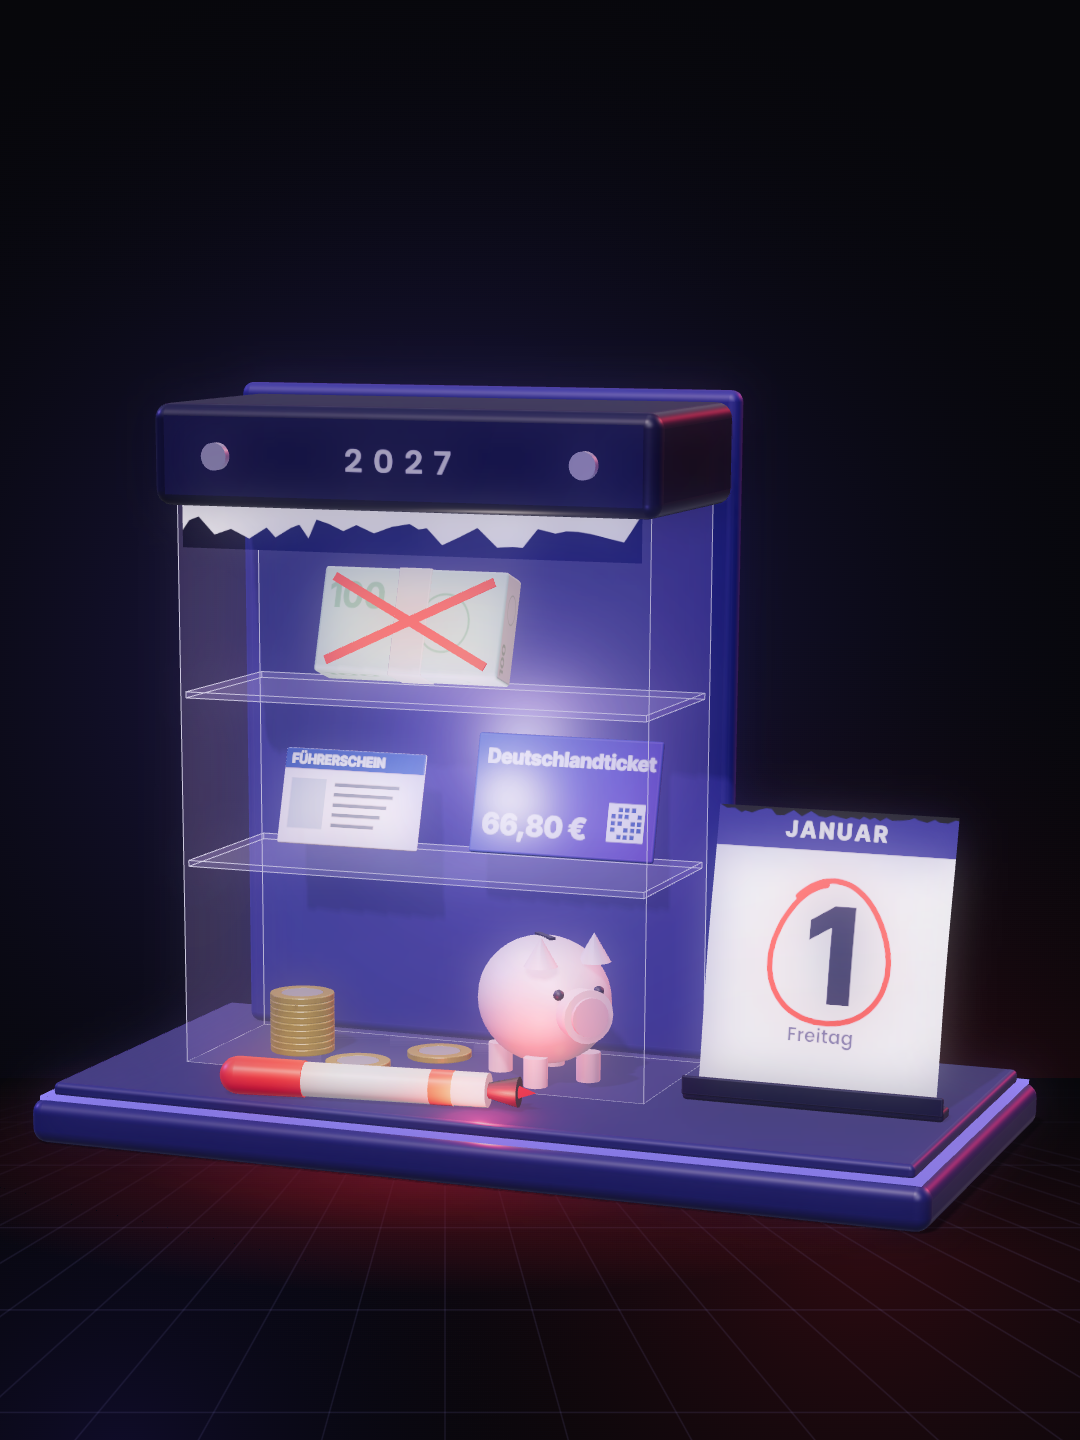
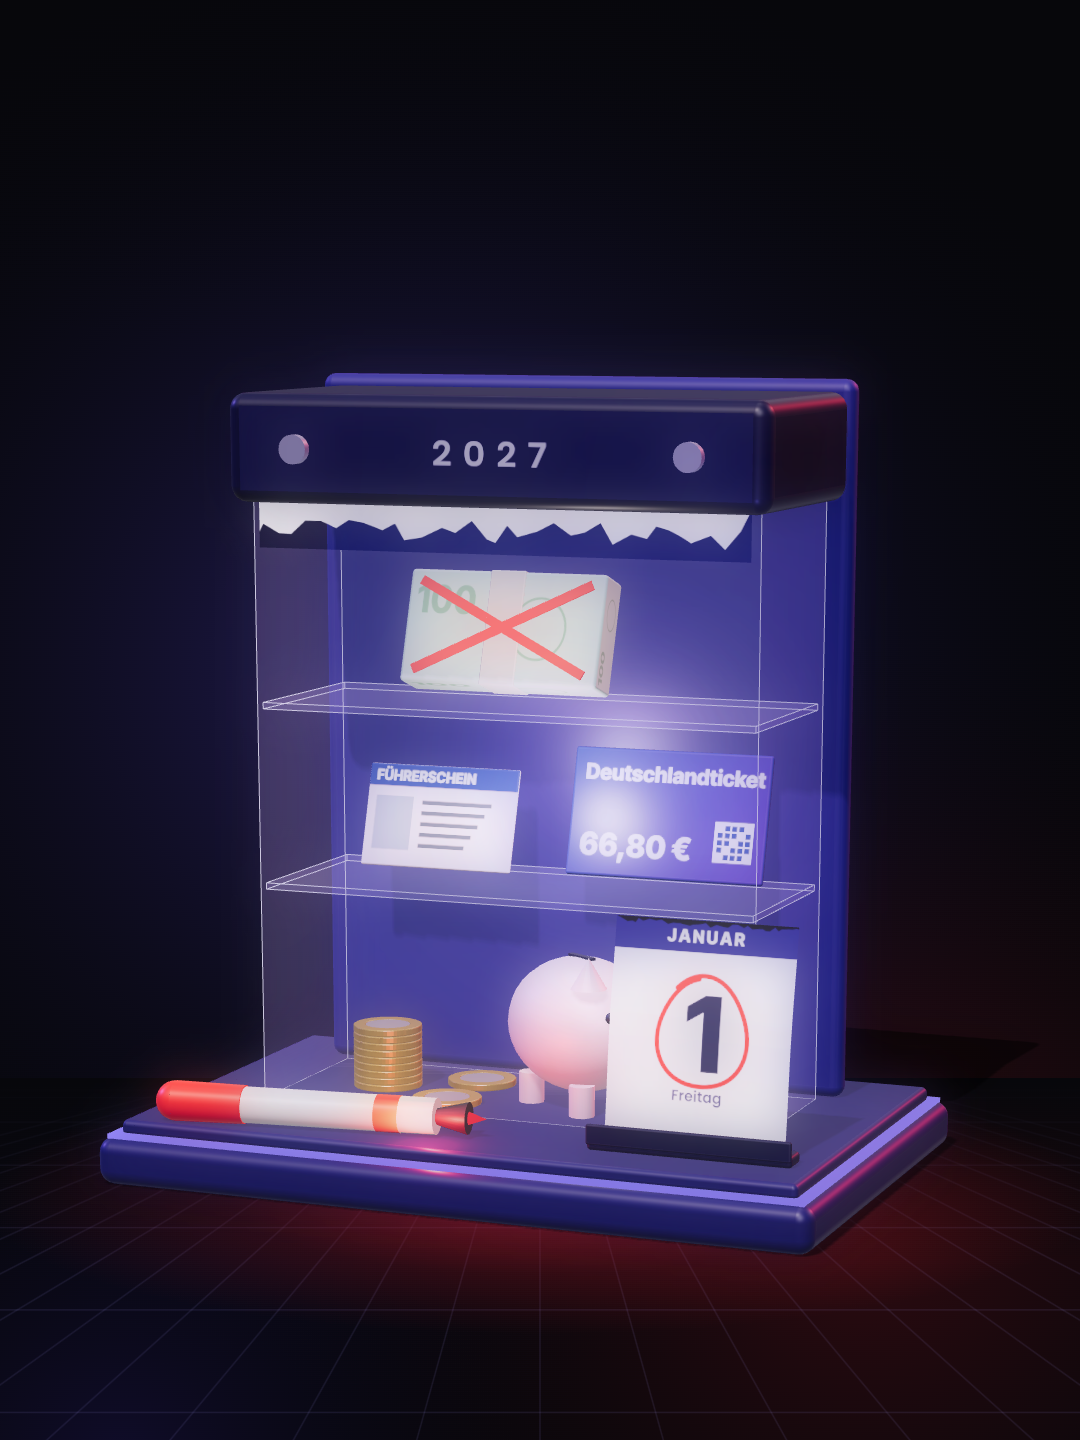
2027-Cover: Januar-Blatt im Aufsteller vor dem Sparschwein, Platte wieder in Originalgröße
Claude-Session: https://claude.ai/code/session_01JQEQeouhfuAX8JpSfuj7SD

diff --git a/jahr2027/cover_clean.html b/jahr2027/cover_clean.html
@@ -20,8 +20,8 @@ import {RoundedBoxGeometry} from 'three/addons/geometries/RoundedBoxGeometry.js'
 await Promise.all(['600 40px Poppins','800 96px "Inter Tight"'].map(f=>document.fonts.load(f)));
 const W=1080,H=1920;const Q=new URLSearchParams(location.search);const V=+(Q.get('v')||1);
 const bg=document.getElementById('bg').getContext('2d'),fg=document.getElementById('fg').getContext('2d');
-const DEF={1:{cy:1360,el:14,ry:-0.38,s:1.05},2:{cy:1330,el:14,ry:-0.38,s:1.12},3:{cy:1360,el:14,ry:-0.34,s:1.05}}[V];
-const CX=+(Q.get('cx')||(V===2?540:445)),CY=+(Q.get('cy')||DEF.cy);
+const DEF={1:{cy:1400,el:14,ry:-0.38,s:1.12},2:{cy:1330,el:14,ry:-0.38,s:1.12},3:{cy:1360,el:14,ry:-0.34,s:1.05}}[V];
+const CX=+(Q.get('cx')||540),CY=+(Q.get('cy')||DEF.cy);
 // ---------- background (same recipe as the other clean covers) ----------
 {bg.fillStyle='#07070B';bg.fillRect(0,0,W,H);
  const blob=(x,y,r,c)=>{const g=bg.createRadialGradient(x,y,0,x,y,r);g.addColorStop(0,c);g.addColorStop(1,'rgba(0,0,0,0)');bg.fillStyle=g;bg.fillRect(0,0,W,H);};
@@ -65,7 +65,7 @@ const coin=(par,x,y,z,rx,ry,rz=0)=>{const G=new THREE.Group();G.position.set(x,y
 // ---------------- the calendar ----------------
 const C=obj;const PW=1.3,PH=1.5,PD=0.5,BY=0.16;
 // plinth with a lit edge
-const XW=(V===2?0:0.58),XO=XW/2; // v1/v3: the plinth is longer to the right, the torn page stands there in a small holder
+const XW=0,XO=0;
 RB(C,PW+0.55+XW,0.12,PD+0.7,PAN,XO,0.06,0.05,0.04);
 add(C,new THREE.BoxGeometry(PW+0.5+XW,0.012,PD+0.65),new THREE.MeshBasicMaterial({color:0x9a8cff,toneMapped:false}),XO,0.122,0.05);
 RB(C,PW+0.45+XW,0.04,PD+0.6,PAN,XO,0.14,0.05,0.015);
@@ -82,12 +82,12 @@ const IN=new THREE.Group();IN.position.set(0,BY,0);C.add(IN);const ZB=-PD/2+0.00
 for(const sy of [S1,S2]){const g=new THREE.BoxGeometry(PW-0.02,0.016,PD-0.02);glass(IN,g,0,sy-0.008,0,.16);edges(IN,g,0,sy-0.008,0);}
 // lean a slab (height h along its local y, thickness t along local z) back against the back pane, standing on height y0
 const leanSlab=(o,y0,h,t,a)=>{o.rotation.x=-a;o.position.y=y0+h/2*Math.cos(a)+t/2*Math.sin(a);o.position.z=ZB+t/2*Math.cos(a)+h/2*Math.sin(a);};
-const CT=0.018;for(let i=0;i<9;i++)coin(IN,-0.42,0.009+i*CT,0.0,-Math.PI/2,0,i*0.7);coin(IN,-0.2,0.009,0.13,-Math.PI/2,0,1);coin(IN,-0.04,0.009,-0.06,-Math.PI/2,0,2);
+const CT=0.018;for(let i=0;i<9;i++)coin(IN,-0.42,0.009+i*CT,0.0,-Math.PI/2,0,i*0.7);coin(IN,-0.2,0.009,0.13,-Math.PI/2,0,1);coin(IN,-0.2,0.009,-0.1,-Math.PI/2,0,2);
 {const T=canvasTex(512,320,(g,w,h)=>{const gr=g.createLinearGradient(0,0,w,h);gr.addColorStop(0,'#1f3a8a');gr.addColorStop(1,'#3f2a9a');g.fillStyle=gr;g.fillRect(0,0,w,h);g.fillStyle='#fff';g.font='800 54px "Inter Tight"';g.fillText('Deutschlandticket',30,80);
    g.font='800 78px "Inter Tight"';g.fillText('66,80 €',30,270);g.fillStyle='#fff';g.fillRect(380,170,100,100);g.fillStyle='#1f3a8a';for(let i=0;i<5;i++)for(let k=0;k<5;k++)if((i*7+k*3)%4)g.fillRect(388+i*18,178+k*18,14,14);});
  const sc=1.25,t=new THREE.Mesh(new RoundedBoxGeometry(0.42*sc,0.26*sc,0.012*sc,2,0.01),[M(0x2a3a8a),M(0x2a3a8a),M(0x2a3a8a),M(0x2a3a8a),new THREE.MeshStandardMaterial({map:T,roughness:.4}),M(0x2a3a8a)]);
  t.castShadow=true;t.position.x=0.27;leanSlab(t,S1,0.26*sc,0.012*sc,0.26);IN.add(t);}
-{const P=new THREE.Group();P.position.set(0.3,0.0,0.04);P.rotation.y=-0.75;P.scale.setScalar(1.3);IN.add(P);const pk=M(0xf3c6d4,{roughness:.5});
+{const P=new THREE.Group();P.position.set(0.12,0.0,0.02);P.rotation.y=-0.55;P.scale.setScalar(1.3);IN.add(P);const pk=M(0xf3c6d4,{roughness:.5});
  const b=add(P,new THREE.SphereGeometry(0.13,28,20),pk,0,0.16,0);b.scale.set(1.25,1,1);add(P,new THREE.CylinderGeometry(0.05,0.055,0.05,20).rotateZ(Math.PI/2),pk,0.17,0.16,0);
  add(P,new THREE.CylinderGeometry(0.04,0.04,0.012,20).rotateZ(Math.PI/2),M(0xe2a3b8),0.197,0.16,0);for(const [x,z] of [[0.08,0.06],[0.08,-0.06],[-0.08,0.06],[-0.08,-0.06]])add(P,new THREE.CylinderGeometry(0.025,0.025,0.06,12),pk,x,0.03,z);
  for(const s of [-1,1])add(P,new THREE.ConeGeometry(0.035,0.06,12),pk,0.1,0.28,s*0.06);add(P,new THREE.BoxGeometry(0.07,0.005,0.012),DARK,0,0.29,0);
@@ -125,11 +125,11 @@ function PAGES(){const pw=PW-0.04,ph=PH-0.04;
     const t=new THREE.CanvasTexture(c);t.colorSpace=THREE.SRGBColorSpace;t.anisotropy=8;return t;})();
   const G=pageMesh(pageGeo(pw,ph,v=>0.05*Math.sin(v*Math.PI*2)),torn); // nearly flat: it stands in the holderG.children.forEach(m=>{m.material.transparent=true;m.material.alphaTest=0.5;});
   if(!G.children[1].material.map){G.children[1].material.alphaMap=null;}
-  // the torn page stands right next to the calendar in a small holder on the plinth: a ledge in front, a wire stand behind, leaning back slightly
-  const sc=0.5,w=pw*sc,h=ph*sc,a=0.2,x0=1.07,y0=0.16+0.03,z0=0.12;G.scale.setScalar(sc);G.rotation.set(-a,0,0);
+  // the torn page stands in front of the piggy bank in a small holder on the plinth (between the glass and the front edge), leaning back slightly
+  const sc=0.36,w=pw*sc,h=ph*sc,a=0.15,x0=0.56,y0=0.16+0.03,z0=0.42;G.scale.setScalar(sc);G.rotation.set(-a,0,0);
   G.position.set(x0,y0+h/2*Math.cos(a),z0-h/2*Math.sin(a));C.add(G);
   RB(C,w+0.06,0.03,0.07,DARK,x0,0.16+0.015,z0+0.01,0.01);RB(C,w+0.06,0.05,0.012,DARK,x0,0.16+0.04,z0+0.045,0.005);
-  const back=z0-0.02-h*0.62*Math.sin(a);for(const sx of [-1,1]){const A=new THREE.Vector3(x0+sx*w*0.3,0.16,z0-0.32),B=new THREE.Vector3(x0+sx*w*0.3,y0+h*0.62*Math.cos(a),back);
+  const back=z0-0.02-h*0.62*Math.sin(a);for(const sx of [-1,1]){const A=new THREE.Vector3(x0+sx*w*0.3,0.16,z0-0.13),B=new THREE.Vector3(x0+sx*w*0.3,y0+h*0.62*Math.cos(a),back);
     const g=new THREE.CylinderGeometry(0.008,0.008,A.distanceTo(B),10);g.translate(0,A.distanceTo(B)/2,0);g.applyQuaternion(new THREE.Quaternion().setFromUnitVectors(new THREE.Vector3(0,1,0),B.clone().sub(A).normalize()));const m=new THREE.Mesh(g,METAL);m.position.copy(A);m.castShadow=true;C.add(m);}
   {const g=new THREE.CylinderGeometry(0.008,0.008,w*0.6,10).rotateZ(Math.PI/2);const m=new THREE.Mesh(g,METAL);m.position.set(x0,y0+h*0.62*Math.cos(a),back);C.add(m);}}
 PAGES();
@@ -139,7 +139,7 @@ if(V===3){const months=['FEBRUAR','JULI','DEZEMBER'],days=['1','10','31'];months
   const pos=p.geometry.attributes.position;for(let k=0;k<pos.count;k++){const x=pos.getX(k);pos.setZ(k,0.06*Math.sin((x+0.21)/0.42*Math.PI)*(i%2?1:-1));}p.geometry.computeVertexNormals();
   p.position.set([-0.78,-0.05,0.68][i],BY+PH+[0.66,0.84,0.72][i],[0.25,0.1,0.05][i]);p.rotation.set(-0.3+i*0.2,[0.5,-0.2,-0.6][i],[0.35,-0.15,-0.4][i]);p.castShadow=true;C.add(p);});}
 // the red marker lying on the plinth in front
-{const Mk=new THREE.Group();Mk.position.set(0.3,0.16+0.05,0.45);Mk.rotation.set(0,0.12,Math.PI/2);C.add(Mk);const wh=M(0xeceae5,{roughness:.35});
+{const Mk=new THREE.Group();Mk.position.set(-0.08,0.16+0.05,0.47);Mk.rotation.set(0,0.12,Math.PI/2);C.add(Mk);const wh=M(0xeceae5,{roughness:.35});
  add(Mk,new THREE.CylinderGeometry(0.045,0.045,0.5,28),wh,0,0.25,0);add(Mk,new THREE.CylinderGeometry(0.046,0.046,0.06,28),REDS,0,0.12,0);add(Mk,new THREE.CylinderGeometry(0.05,0.048,0.18,28),REDS,0,0.58,0);
  add(Mk,new THREE.SphereGeometry(0.05,24,12,0,Math.PI*2,0,Math.PI/2),REDS,0,0.67,0);add(Mk,new THREE.CylinderGeometry(0.02,0.04,0.08,20),M(0x2a2a30),0,-0.04,0);add(Mk,new THREE.ConeGeometry(0.018,0.05,16).rotateX(Math.PI),REDM,0,-0.1,0);
  const p=new THREE.PointLight(0xff2030,0.8,0.8,2);p.position.set(0,0.0,0.1);Mk.add(p);}

diff --git a/STATUS.md b/STATUS.md
@@ -123,7 +123,7 @@ Der Nutzer wollte neue Ideen ohne Diorama-Look und hat dieses Thema gewählt, da
 - Higgsfield-Guthaben war 0, deshalb ist alles selbst in 3D gebaut; Prompts für eine spätere Variante stehen im Drehbuch unter F.
 - Fertig am 19.11.2026: `Was_aendert_sich_2027_mit_Musik.mp4` und `_nur_Effekte.mp4` (77,0 s, −16 LUFS), Upload-Fassung mit Cover als erstem Standbild in `social/Was_aendert_sich_2027_Upload_mit_Cover.mp4`, Kontaktbogen `Kontaktbogen_Was_aendert_sich_2027.jpg`. Die ersten 248 Bilder wurden mit einer lebendigeren Hook-Kamera neu gerendert (`fr2`, Naht bei Bild 248 geprüft). Effekte liegen 5 bis 8 dB unter der Stimme.
 - Dritte Fassung (19.11.2026, Feedback mit sieben Screenshots): Nichts ragt mehr in den Tisch (geprüft für jedes Bild mit `node clipcheck.mjs 0 76`, Kollisionen von Bündel, Theke und Figuren mit `node collide.mjs 61 71`). Die Balken haben einen Sockel mit großem „2026/2027“, die Werte stehen auf den Balken. Die Lasche des Musterungsbriefs sitzt hinten, der Brief kommt davor heraus, die Adresse passt ins Fenster. Die Brutto-Zeile passt immer zum Stundenlohn. Statt der Figuren, die nach KI aussahen, gibt es zwei Holz-Spielfiguren (`mkMeeple` in `src/props.js`, `meepleAnim` in `src/main.js`), das Bündel rutscht über den Tisch statt zu schweben. Alle Effekte kommen aus der Soundza-Bibliothek (IDs in `SOUNDS.md`), Musik sowie Whoosh und Klicks des Nutzers bleiben. Das Video wurde komplett neu gerendert (`fr3`, dann nach `fr`).
-- Cover neu (Wunsch des Nutzers, 20.11.2026: „das Cover im Stil von meinen anderen“): `jahr2027/cover_clean.html` (Server Port 8777 im Ordner `jahr2027`, `node cover_clean.mjs out.png "?v=1"`), clean wie Geldautomat, Fernsehturm und Merz: kompakter Abreißkalender „2027“ in Lila und Violett auf einer Platte mit Lichtkante, gläserner Blattblock mit Blick ins Innere (Münzstapel, Deutschlandticket 66,80 €, Sparschwein, Führerschein, Geldbündel mit rotem Kreuz), roter Filzstift auf der Platte. `?v=1` das Januar-Blatt mit rotem Kringel fliegt gerade ab (als Thumbnail gesetzt), `?v=2` das Blatt rollt sich unten auf, `?v=3` wie 1 mit drei weiteren fliegenden Blättern. Vergleich: `jahr2027/social/Cover_2027_Varianten.jpg`. Das alte Cover (Kalender auf dem grauen Tisch) liegt in `social/cover_alt/`. Danach auf Fehler geprüft und überarbeitet (Wunsch des Nutzers, 20.11.2026): Nichts schwebt mehr, Münzen liegen flach auf dem Boden, Führerschein und Deutschlandticket stehen auf einem gläsernen Regalboden und lehnen an der Rückwand, das Geldbündel steht auf einem zweiten Regalboden, das rote Kreuz bleibt auf dem Bündel, der Stift liegt ganz auf der Platte, das abgerissene Blatt (mit gerissener Oberkante) fliegt frei über der Kopfleiste und liegt komplett im 3:4-Ausschnitt. Danach (Wunsch des Nutzers: „Mach das Blatt mit erste Januar neben dran“): Die Platte ist nach rechts verlängert, und das abgerissene Januar-Blatt steht dort in einem kleinen dunklen Aufsteller mit Drahtstütze direkt neben dem Kalender, leicht nach hinten geneigt (Variante 1, als Thumbnail gesetzt; Variante 3 genauso, mit drei weiteren fliegenden Blättern).
+- Cover neu (Wunsch des Nutzers, 20.11.2026: „das Cover im Stil von meinen anderen“): `jahr2027/cover_clean.html` (Server Port 8777 im Ordner `jahr2027`, `node cover_clean.mjs out.png "?v=1"`), clean wie Geldautomat, Fernsehturm und Merz: kompakter Abreißkalender „2027“ in Lila und Violett auf einer Platte mit Lichtkante, gläserner Blattblock mit Blick ins Innere (Münzstapel, Deutschlandticket 66,80 €, Sparschwein, Führerschein, Geldbündel mit rotem Kreuz), roter Filzstift auf der Platte. `?v=1` das Januar-Blatt mit rotem Kringel fliegt gerade ab (als Thumbnail gesetzt), `?v=2` das Blatt rollt sich unten auf, `?v=3` wie 1 mit drei weiteren fliegenden Blättern. Vergleich: `jahr2027/social/Cover_2027_Varianten.jpg`. Das alte Cover (Kalender auf dem grauen Tisch) liegt in `social/cover_alt/`. Danach auf Fehler geprüft und überarbeitet (Wunsch des Nutzers, 20.11.2026): Nichts schwebt mehr, Münzen liegen flach auf dem Boden, Führerschein und Deutschlandticket stehen auf einem gläsernen Regalboden und lehnen an der Rückwand, das Geldbündel steht auf einem zweiten Regalboden, das rote Kreuz bleibt auf dem Bündel, der Stift liegt ganz auf der Platte, das abgerissene Blatt (mit gerissener Oberkante) fliegt frei über der Kopfleiste und liegt komplett im 3:4-Ausschnitt. Danach (Wunsch des Nutzers: das Januar-Blatt „vor dem Sparschwein, Platte nicht verlängern“): Das abgerissene Januar-Blatt steht in einem kleinen dunklen Aufsteller mit Drahtstütze auf der Platte zwischen Glas und Vorderkante, direkt vor dem Sparschwein, das dahinter etwas zur Seite gerückt ist; der rote Stift liegt links daneben (Variante 1, als Thumbnail gesetzt; Variante 3 genauso, mit drei weiteren fliegenden Blättern).
 - Outro v8 (Wunsch des Nutzers, 20.11.2026: „Mach einfach nur, dass function. erscheint, 2 Sekunden, das ist mir alles zu schlecht“): Nach Stempel, roter Linie, rollendem Stift, Silvester-Feuerwerk und zehn Kreisen, die zum Punkt werden (alle verworfen), blendet das Bild nach dem letzten Satz in 0,3 s auf den dunklen Hintergrund ab, und in der Mitte erscheint ruhig das rote „function.“ (Poppins 500, 190 px) und bleibt stehen (`logoOutro()` in `src/main.js`, Canvas `#fw`). Danach (Wunsch des Nutzers: „Hintergrund bisschen heller sehen und der Punkt kommt nach“): Der Hintergrund wird nur auf etwa 60 % abgedunkelt, sodass Kalender und Objekte schwach sichtbar bleiben und ruhig stehen (die Objekte bleiben bis zum Ende in ihrer Übersichtsposition). „function“ blendet zuerst ein, der Punkt ploppt etwa eine halbe Sekunde später nach, dazu ein leiser Klick (`LO` in `src/main.js`). Video 75,6 s (2268 Bilder).
 - Überarbeitung am 19.11.2026 (Wunsch des Nutzers, nur zwei Szenen): Das Sparschwein (0:31–0:37) trabt mit Gelenkbeinen hinein und hinaus, drei Münzen fallen sichtbar in den Schlitz; der Führerschein (0:42–0:49) ist eine zweiseitige Karte, alt (2003, vergilbt) fliegt heran und dreht sich bei „umtauschen“ in den neuen EU-Führerschein. Eigene Kameras nur dort (`blendCam()`), dezente Schritte, Münzeinwürfe und Karten-Geräusch. Neu gerendert wurden nur die Bilder 918–1116, 1262–1484 und 2090–2240 (Übersicht zeigt neues Schwein und neue Karte); die Nähte sind geprüft (Abweichung 0).
 - Offen: Higgsfield (Virality Predictor, fotorealistisches Cover, alternativer Hook) erst, wenn der Nutzer Credits auflädt; Metricool-Entwürfe erst auf Wunsch.
